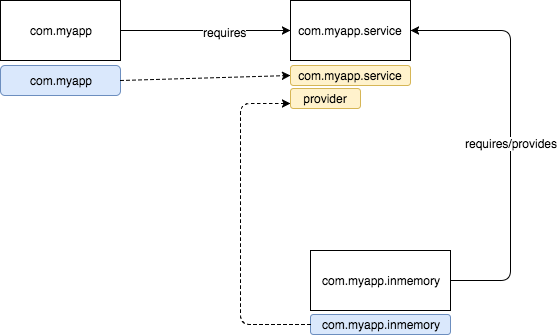
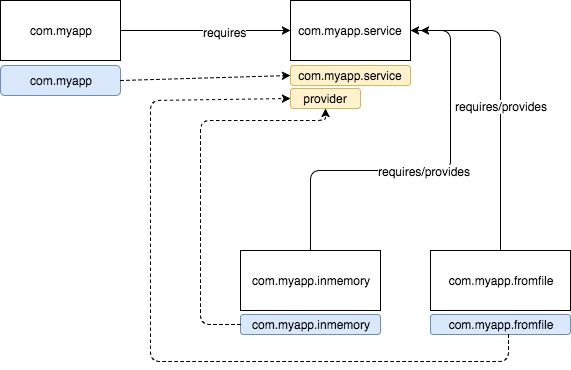
Update README.md

diff --git a/java-9-modules-2/README.md b/java-9-modules-2/README.md
@@ -9,9 +9,9 @@ Here you can see those 3 modules:
 * `com.myapp` : that uses the `com.myapp.service` module to get a `Repository` (thus it is a service consumer)
 * `com.myapp.service` : that makes use of the `ServiceLocator` to find an implementation for the requested service provider.
 * `com.myapp.inmemory` : that provides an implementation for the `RepositoryProvider` service and `Repository` interface that will be used by the `com.myapp` module.
+* * `com.myapp.fromfile` : that provides another implementation for the `RepositoryProvider` service and `Repository` interface that will be used by the `com.myapp` module.
 
 ![](misc/java-9-modules-2.png)
-
 
 Take a look into the `module-info.java` files to see how the project is set up.
 
